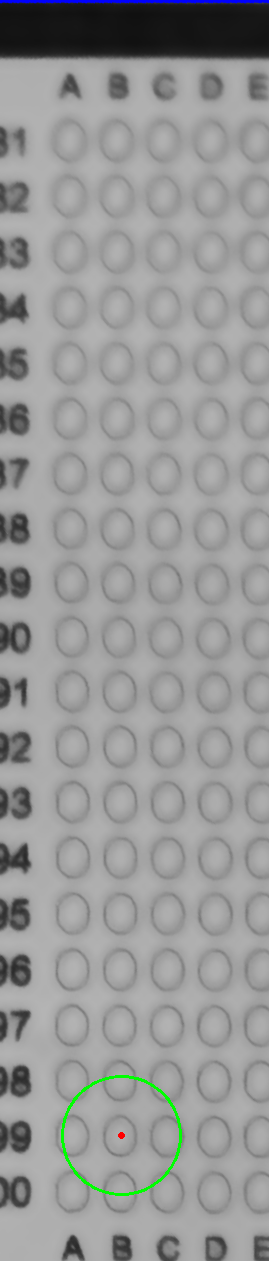
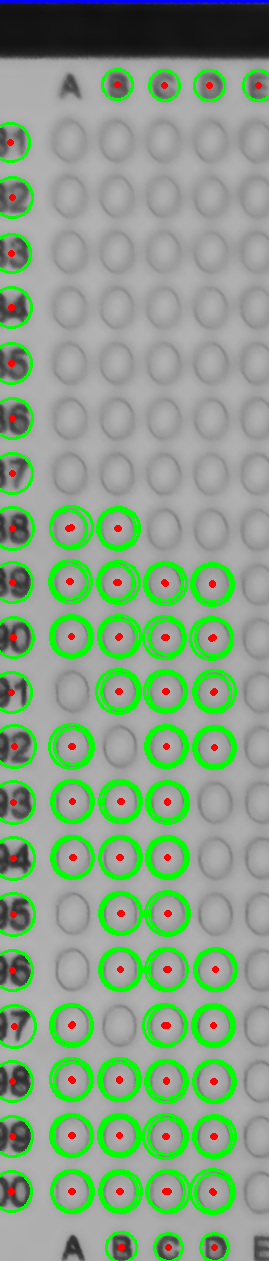
nuj

diff --git a/incercare/bubbles.py b/incercare/bubbles.py
@@ -28,62 +28,108 @@ def find_bubbles(img, index):
         [-1,8,-1],
         [-1,-1,-1]
         ])
-    # gray = cv2.filter2D(gray, -1, kernel2,  anchor=(-1, -1), delta=0, borderType=cv2.BORDER_DEFAULT)
     gray = cv2.filter2D(src=gray, ddepth=-1, kernel=kernel_sharpen)
     # gray = cv2.filter2D(src=gray, ddepth=-1, kernel=kernel_detect)
-    gray = very_black_to_white_else_black(gray)
-    save(f"debug_gray_{index}.png", gray)
+    # gray = cv2.filter2D(gray, -1, kernel_sharpen,  anchor=(-1, -1), delta=0, borderType=cv2.BORDER_DEFAULT)
+    mask = very_black_to_white_else_black(gray)
+    save(f"debug_gray_{index}.png", mask)
 
-    circles = cv2.HoughCircles(
-        gray,
-        cv2.HOUGH_GRADIENT,
-        dp=1.2,
-        # minDist=max(12, gray.shape[0] // 40),
-        minDist=20,
-        param1=10,
-        param2=40,
-        minRadius=20,
-        maxRadius=60,
-    )
+    circles = circles_from_mask(mask, min_area=400, max_area=6000)
 
-    if circles is None:
-        # vis = cv2.cvtColor(gray, cv2.COLOR_GRAY2BGR)
+    if len(img.shape) == 2:
+        vis = cv2.cvtColor(img, cv2.COLOR_GRAY2BGR)
+    else:
         vis = img.copy()
-        save(f"bubbles{index}.png", vis)
-        return []
 
-    kept = []
-    min_area = 1500
-    for x, y, r in np.round(circles[0, :]).astype(int):
-        area = math.pi * (int(r) ** 2)
-        if area < min_area:
-            continue
-        kept.append((int(x), int(y), int(r)))
-
-    vis = img.copy()
-    for x, y, r in kept:
-        cv2.circle(vis, (x, y), r, (0, 255, 0), 2)
-        cv2.circle(vis, (x, y), 2, (0, 0, 255), 2)
+    for c in circles:
+        x, y = c["center"]
+        r = c["r"]
+        cv2.circle(vis, (int(x), int(y)), int(r), (0, 255, 0), 2)
+        cv2.circle(vis, (int(x), int(y)), 2, (0, 0, 255), 2)
 
     save(f"bubbles{index}.png", vis)
 
     bubbles = []
-    for x, y, r in kept:
-        bubbles.append({"cx": x, "cy": y, "r": r})
+    for c in circles:
+        x, y = c["center"]
+        r = c["r"]
+        bubbles.append({"cx": int(x), "cy": int(y), "r": int(r)})
 
     bubbles.sort(key=lambda b: (b["cy"], b["cx"]))
     return bubbles
 
-
-def circles_from_mask(mask, min_area=30, max_area=3000):
-    cnts, _ = cv2.findContours(mask, cv2.RETR_EXTERNAL, cv2.CHAIN_APPROX_SIMPLE)
+def circles_from_mask(
+    mask,
+    min_area=30,
+    max_area=3000,
+    min_radius=3,
+    max_radius=100,
+    min_circularity=0.1,
+    min_fill_ratio=0.0,
+    min_solidity=0,
+    max_aspect_ratio_diff=0.5,  # cat de mult poate devia w/h de la 1
+):
+    cnts, _ = cv2.findContours(mask, cv2.RETR_LIST, cv2.CHAIN_APPROX_NONE)
     out = []
+
     for c in cnts:
         area = cv2.contourArea(c)
         if area < min_area or area > max_area:
             continue
-        (x,y), r = cv2.minEnclosingCircle(c)
-        out.append({"center": (x,y), "r": r, "area": area, "cnt": c})
+
+        perimeter = cv2.arcLength(c, True)
+        if perimeter == 0:
+            continue
+
+        # Cerc minim care acopera contour-ul
+        (x, y), r = cv2.minEnclosingCircle(c)
+        if r < min_radius or r > max_radius:
+            continue
+
+        circle_area = math.pi * r * r
+        if circle_area == 0:
+            continue
+
+        # 1) Circularity
+        circularity = 4 * math.pi * area / (perimeter * perimeter)
+
+        # 2) Cat din cerc e ocupat efectiv de contour
+        fill_ratio = area / circle_area
+
+        # 3) Aspect ratio din bounding box
+        bx, by, w, h = cv2.boundingRect(c)
+        if h == 0:
+            continue
+        aspect_ratio = w / h
+        aspect_diff = abs(1.0 - aspect_ratio)
+
+        # 4) Solidity
+        hull = cv2.convexHull(c)
+        hull_area = cv2.contourArea(hull)
+        if hull_area == 0:
+            continue
+        solidity = area / hull_area
+
+        if circularity < min_circularity:
+            continue
+        if fill_ratio < min_fill_ratio:
+            continue
+        if solidity < min_solidity:
+            continue
+        if aspect_diff > max_aspect_ratio_diff:
+            continue
+
+        out.append({
+            "center": (x, y),
+            "r": r,
+            "area": area,
+            "cnt": c,
+            "circularity": circularity,
+            "fill_ratio": fill_ratio,
+            "solidity": solidity,
+            "aspect_ratio": aspect_ratio,
+        })
+
     return out
 
 def very_black_to_white_else_black(img, thr=150):
